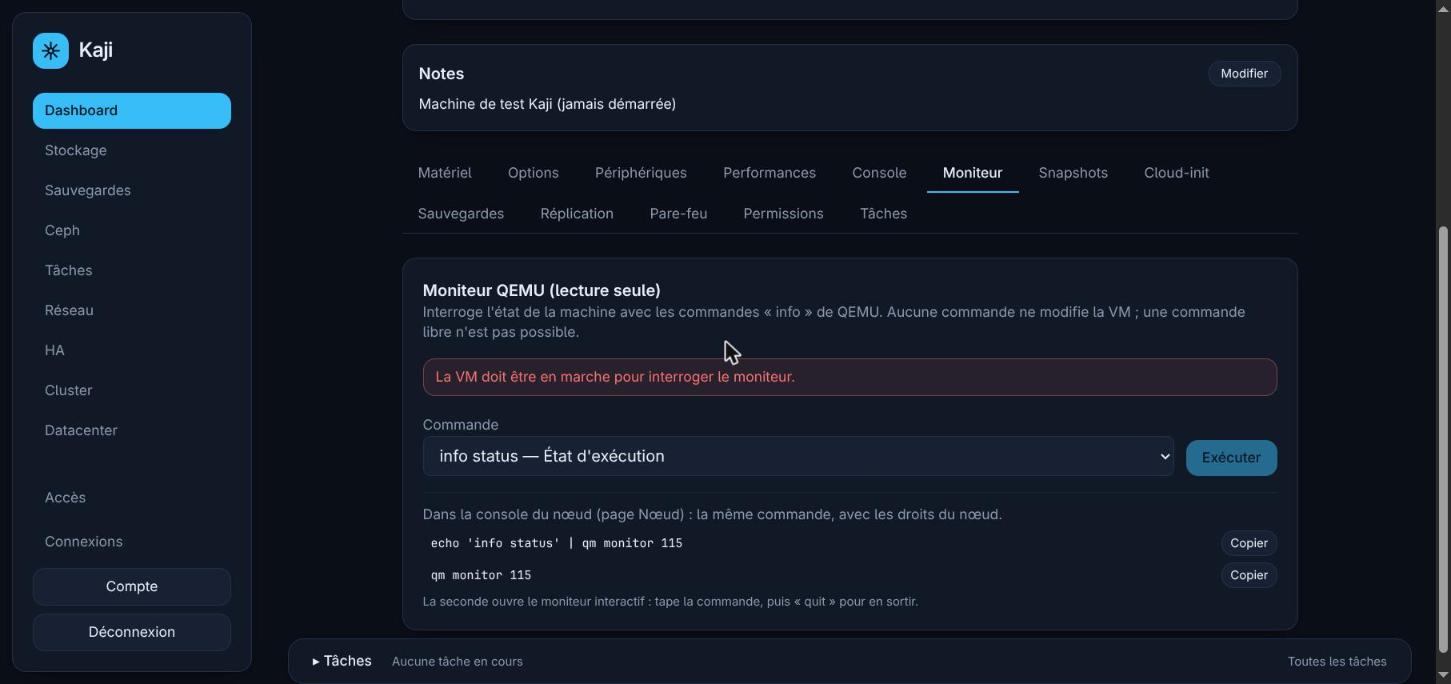
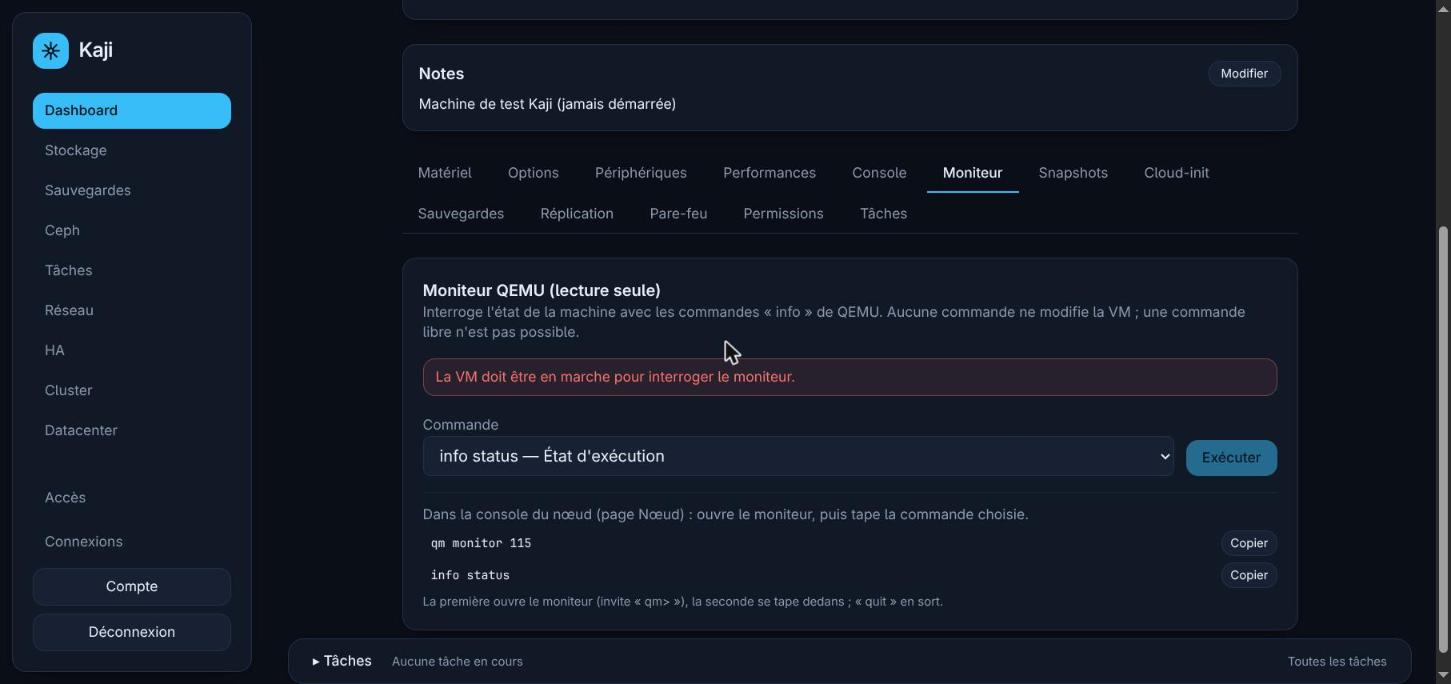
docs(captures): onglet Moniteur avec qm monitor puis la commande à taper

diff --git a/docs/REPRISE.md b/docs/REPRISE.md
@@ -79,7 +79,7 @@ Deux agents, **PC A** et **PC B**, qui font **la même chose** depuis le 2026-11
 - **Reste, dans cet ordre** (tableau détaillé : `docs/parite-proxmox.md`, colonnes ⬜/🟡) : M13 notifications + métriques → M14 options avancées → M15 datacenter. (M5, M6 code, M7 : terminés côté code ; il reste leurs validations en réel, voir « À reprendre sur un autre PC ».)
 - **Jamais exécuté en réel** (à dire dans chaque PR) : migration à chaud, déplacement et agrandissement de disque, carte réseau ajoutée, PBS (aucun PBS dispo), protection de sauvegarde, élagage (aucune sauvegarde sur le cluster), stockages autres que dir, redémarrer/éteindre un nœud, disques et volumes, certificats, ACME, dépôts (ajout), Ceph.
 - **Serveurs NTP, commandes à copier (PC B, accord d'Enzo du 2026-11-12 ; PR #346 fusionnée et déployée, capture au README)** : bouton « Serveurs NTP… » du bloc « Configuration du nœud » ; **Proxmox n'a pas d'API NTP**, Kaji génère le fichier `/etc/chrony/sources.d/<nom>.sources` et les commandes à coller dans la console du nœud (contrôle de la directive `sourcedir`, écriture, `chronyc reload sources`, `chronyc sources -v`) ; `POST …/ntp/commands` n'appelle pas Proxmox (`docs/api/ntp-noeud.md`). 38 tests, 18 mutations tuées. **Vu dans le navigateur (`enzo2`)** : le formulaire, la génération (pool `0.fr.pool.ntp.org`), l'avertissement et les quatre commandes s'affichent ; rien n'a été lancé. **Format Debian de `chrony` confirmé par Enzo sur `enzo` (2026-11-13)** : le contrôle `grep -E '^sourcedir /etc/chrony/sources.d' /etc/chrony/chrony.conf` affiche `sourcedir /etc/chrony/sources.d` ; **jamais lancé** : l'écriture du fichier, `chronyc reload sources`, `chronyc sources -v`, et le nœud `enzo2` (seul `enzo` a été contrôlé).
-- **Moniteur QEMU gardé, commande à copier (PC B, décision d'Enzo du 2026-11-12 : « on garde » ; PR #344 et capture #345 fusionnées et déployées)** : Proxmox 9 refuse toujours le moniteur au token de Kaji (403) ; l'onglet « Moniteur » affiche en plus `qm monitor <vmid>` puis la commande à taper dans le moniteur, à coller dans la console du nœud (frontend seul, liste blanche `info …`, `docs/api/moniteur-qemu.md`). **Vu à l'écran (VM 115, 2026-11-12)** : les deux commandes et leurs boutons Copier ; **vérifié par Enzo dans la console du nœud (2026-11-13)** : `qm monitor 115` s'ouvre (invite `qm>`) mais **le one-liner `echo '…' | qm monitor` n'affiche aucune réponse** : retiré de l'onglet (PR de suivi) ; la saisie dans le moniteur interactif n'a pas été vue (la sortie d'une commande n'a jamais été vue).
+- **Moniteur QEMU gardé, commande à copier (PC B, décision d'Enzo du 2026-11-12 : « on garde » ; PR #344 et capture #345 fusionnées et déployées)** : Proxmox 9 refuse toujours le moniteur au token de Kaji (403) ; l'onglet « Moniteur » affiche en plus `qm monitor <vmid>` puis la commande à taper dans le moniteur, à coller dans la console du nœud (frontend seul, liste blanche `info …`, `docs/api/moniteur-qemu.md`). **Vu à l'écran (VM 115, 2026-11-12)** : les deux commandes et leurs boutons Copier ; **vérifié par Enzo dans la console du nœud (2026-11-13)** : `qm monitor 115` s'ouvre (invite `qm>`) mais **le one-liner `echo '…' | qm monitor` n'affiche aucune réponse** : retiré de l'onglet (PR #366, déployée, capture du README refaite) ; la saisie dans le moniteur interactif n'a pas été vue (la sortie d'une commande n'a jamais été vue).
 - **NTP du nœud : pas d'API (PC B, 2026-11-12)** : `apidoc.js` de Proxmox 9 n'a que `GET` et `PUT timezone` sur `/nodes/{n}/time` ; aucune route pour les serveurs NTP ni l'état de synchronisation (comme pour les dépôts apt libres, voir `docs/api/depot-apt-perso.md`). La ligne « synchronisation NTP » du tableau de parité passe de ⬜ à « hors API ». Un éventuel générateur de commandes `chrony` à copier n'est pas fait : le format exact de la configuration du nœud n'a pas été relu en réel.
 - **Dépôt apt personnalisé (PC B, #336 ; PR #337 fusionnée et déployée le 2026-11-12)** : bouton « Dépôt personnalisé… » de la section « Dépôts de paquets » du nœud ; **Proxmox ne sait pas écrire un dépôt libre** (`apidoc.js` : seulement activer / désactiver et ajouter un dépôt standard), donc Kaji **génère le fichier `.sources` et les commandes à copier** (champs en liste blanche, pas d'identifiant dans l'adresse, clé = chemin déjà posé, jamais de contenu de clé) ; `POST …/apt/repositories/custom` n'écrit rien (`docs/api/depot-apt-perso.md`). 58 tests, 19 mutations tuées. **Vu dans le navigateur (2026-11-12, `enzo2`)** : le bouton et la fenêtre s'ouvrent ; **défaut trouvé** : la fenêtre sortait de l'écran (le bloc parent a un flou d'arrière-plan qui sert de repère aux éléments `fixed`), corrigé par un portail (PR de suivi, fenêtres de confirmation comprises). **Jamais lancé** : les commandes générées sur un vrai nœud (volontairement).
 - **Tableau de parité remis à jour (PC B, 2026-11-12 ; PR #327 fusionnée)** : `docs/parite-proxmox.md` aligné sur cette page (options du datacenter, actions groupées, passthrough, snippets, onglets de la machine, sections du nœud, thèmes Clair / Auto, petits écrans, SPICE fusionné par PC A). **Lecture réelle faite sur `enzo2` le 2026-11-12 (système des nœuds, ticket #261)** : version, heure, fuseau, DNS, fichier `hosts` (avec son `digest`), liste des services avec risque et `stoppable` ; **écritures validées le 2026-11-12 (accord d'Enzo, `enzo2`)** : fuseau `Europe/Paris` → `UTC` → `Europe/Paris`, DNS et `hosts` réécrits à l'identique, refus sans `confirm` (400) ; **trouvé** : un `digest` périmé de `hosts` donnait un 502 (Proxmox 500) au lieu d'un 409 clair ; **corrigé** (PC B, PR #334 fusionnée et déployée : `digest` relu avant l'écriture, 5 mutations tuées ; **revérifié en réel : `digest` bidon = 409, `hosts` inchangé**) ; **redémarrage de `chrony` validé ensuite (accord d'Enzo, 2026-11-12)** : tâche OK, service revenu en `running` (le garde-fou de l'outil l'avait refusé une première fois) ; **services « normaux » validés ensuite (2026-11-12, accord d'Enzo, `enzo2`)** : `cron` redémarré, `ksmtuned` arrêté (`dead`) puis démarré (`running`), refus sans `confirm` (400), état d'origine rétabli ; fenêtre de confirmation d'un dépôt apt vue dans l'écran puis annulée (rien écrit) ; **`reload` de `cron` validé ensuite (même jour)** : tâche `srvreload` terminée en OK, service resté `running` ; **activer / désactiver un dépôt apt revérifié une seconde fois par cette session** (`pve-no-subscription.list` désactivé puis réactivé, état relu identique : déjà validé par une autre session de PC B, aucun écart) ; **ajout d'un dépôt standard validé ensuite (accord d'Enzo)** : « Ceph Squid No-Subscription » ajouté ACTIF dans `ceph.sources`, refus (400, 409, 404) et second ajout (409) corrects, puis désactivé ; **il reste une entrée désactivée `no-subscription` dans `/etc/apt/sources.list.d/ceph.sources` de `enzo2`** (l'API de Proxmox ne supprime pas : à retirer à la main si Enzo la veut) ; **services « sensibles » validés ensuite (2026-11-12, Enzo : « tu as tous les droits »)** : `pvestatd`, `pvescheduler`, `spiceproxy` et `postfix` redémarrés sur `enzo2`, tâche `srvrestart` OK, retour en `running`, refus sans `confirm` 400 ; **puis, Enzo ayant redit « tu as le droit » (2026-11-12, `enzo2`, Kaji connecté à `enzo`, pas d'empreinte épinglée : aucun risque de coupure)** : `pveproxy` redémarré (tâche OK) ; `pvedaemon` redémarré, service `running`, **mais tâche Proxmox « failed: received interrupt »** (le démon se redémarre lui-même : un redémarrage réussi était annoncé en échec ; **corrigé le 2026-11-13** (PR #360 : l'interface relit l'état du service et le dit réussi s'il est `running`) ; **revérifié en réel après déploiement : défaut trouvé** : la section « Services » se remplace brièvement par « Lecture impossible » pendant le redémarrage, le composant disparaissait avec son message ; **corrigé** (PR #361 : le message vit dans `NodeSystem`) ; **revérifié encore : l'erreur réelle était « 595 Connection refused »** (le SUIVI de la tâche échoue le temps du redémarrage, pas seulement « received interrupt ») ; **corrigé** (PR de suivi : si la demande a été acceptée, l'interface relit l'état du service jusqu'à 8 fois et le dit réussi s'il est `running`, une demande refusée au départ reste une erreur ; **revérifié en réel le 2026-11-13 par l'interface (`enzo2`, redémarrage de `pvedaemon`) : le message de succès s'affiche et la liste des services revient**) ; **certificat personnalisé installé puis retiré** (auto-signé jetable, clé générée en local puis détruite) : contrôle, refus (400, 422, 409), installation (`pveproxy-ssl.pem` visible), retrait, retour exact à l'état d'origine, aucune clé dans l'audit ; **non fait** : services vitaux `corosync` et `pve-cluster` (peuvent casser le quorum à deux nœuds : jamais touchés), refus d'arrêt de `pveproxy` et de service vital sans nom retapé (script refusé par le garde-fou de l'outil, couverts par le faux Proxmox), chaîne de certificats signée, `restart: false`, `replace_existing`.

diff --git a/README.md b/README.md
@@ -262,7 +262,7 @@ Une page par machine, avec des onglets : Matériel, Options, Périphériques (VM
 
 ![Onglet Moniteur d'une VM](docs/captures/vm-moniteur.jpg)
 
-*Onglet **Moniteur** (VM en marche) : commandes `info …` de QEMU en lecture seule, choisies dans une liste (jamais de commande libre). Proxmox 9 refuse ces commandes au jeton de Kaji (403, message explicatif) : l'onglet affiche donc aussi **la commande à copier** (`echo '…' | qm monitor <id>` ou `qm monitor <id>`) à coller dans la console du nœud.*
+*Onglet **Moniteur** (VM en marche) : commandes `info …` de QEMU en lecture seule, choisies dans une liste (jamais de commande libre). Proxmox 9 refuse ces commandes au jeton de Kaji (403, message explicatif) : l'onglet affiche donc aussi **les commandes à copier** : `qm monitor <id>` (ouvre le moniteur dans la console du nœud) puis la commande choisie à taper dedans.*
 
 ![Options d'une VM : clavier et redémarrage](docs/captures/vm-options-clavier-reboot.jpg)
 
